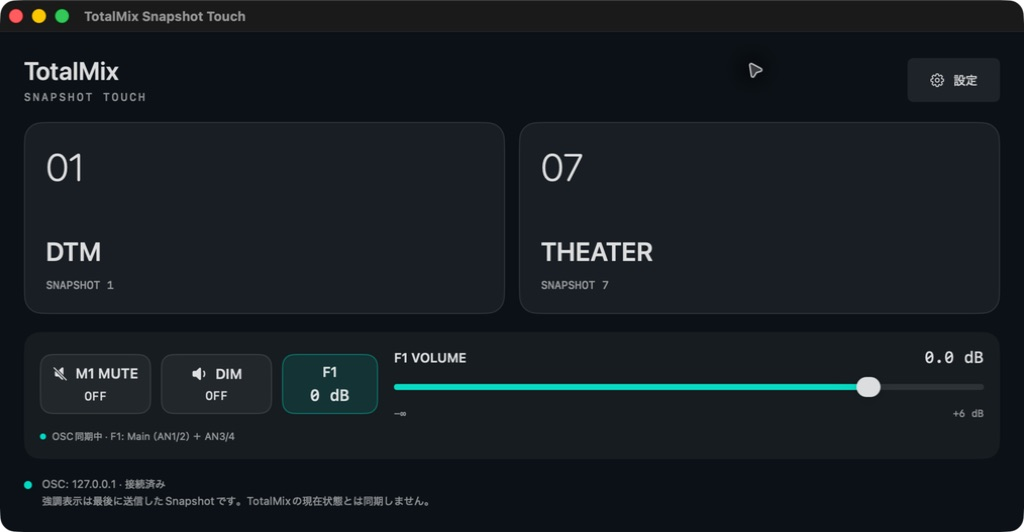
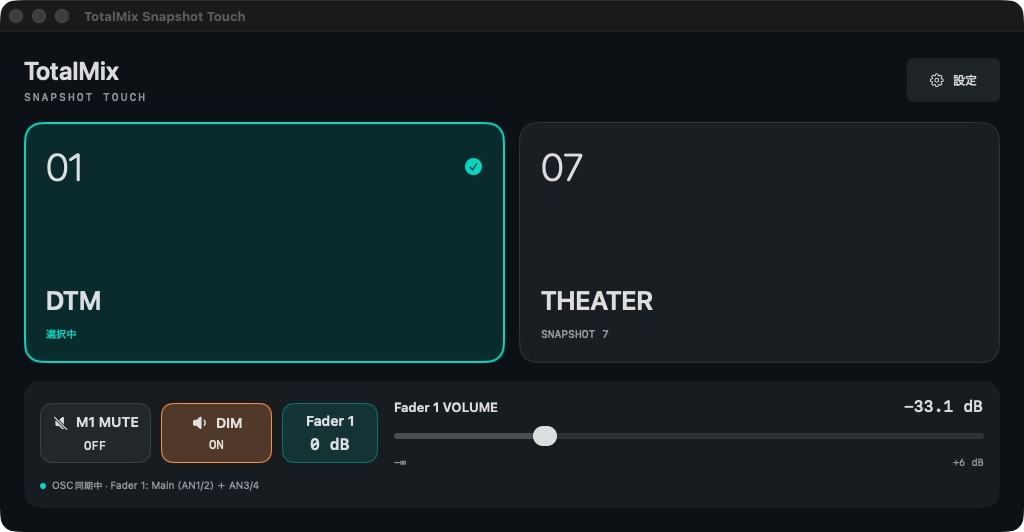
Sync snapshot selection from OSC and simplify UI with refreshed docs

diff --git a/Tests/TotalMixSnapshotTouchTests/OSCTests.swift b/Tests/TotalMixSnapshotTouchTests/OSCTests.swift
@@ -48,6 +48,8 @@ final class OSCTests: XCTestCase {
         settings.oscSendPort = sendPort; settings.oscReceivePort = receivePort
         let manager = OSCManager(settings: settings)
         XCTAssertFalse(manager.canAdjustVolume)
+        XCTAssertNil(manager.currentSnapshot)
+        XCTAssertFalse(manager.snapshotStateKnown)
         func outgoing() -> [OSCMessage] {
             var result: [OSCMessage] = [], bytes = [UInt8](repeating: 0, count: 65535)
             while true {
@@ -89,6 +91,7 @@ final class OSCTests: XCTestCase {
         ])
         XCTAssertTrue(snapshots.allSatisfy { $0.value == .float(1) })
         XCTAssertEqual(manager.lastSentSnapshot, 8)
+        XCTAssertNil(manager.currentSnapshot) // Sending is not confirmation.
         XCTAssertNotNil(manager.lastSentDate)
         settings.setHidden(true, for: 2)
         XCTAssertFalse(manager.recallSnapshot(2))
@@ -96,10 +99,24 @@ final class OSCTests: XCTestCase {
         XCTAssertFalse(manager.recallSnapshot(9))
         XCTAssertTrue(outgoing().isEmpty)
         XCTAssertEqual(manager.lastSentSnapshot, 8)
-        // Snapshot feedback alone must not overwrite the meaning of last-sent state.
-        feedback("/3/snapshots/8/1", 1)
+        // External recall updates selection even for hidden snapshots, not last-sent history.
+        for number in 1...8 {
+            feedback(SnapshotCommand.address(for: number)!, 1)
+            try await Task.sleep(nanoseconds: 20_000_000)
+            XCTAssertEqual(manager.currentSnapshot, number)
+            XCTAssertTrue(manager.snapshotStateKnown)
+        }
+        feedback("/3/snapshots/8/1", 1) // Snapshot 1 becomes selected.
+        feedback("/3/snapshots/1/1", 0) // Late deselection of Snapshot 8 must not clear 1.
+        feedback("/3/snapshots/9/1", 1) // Invalid address.
+        feedback("/3/snapshots/2/1", 0.5) // Invalid state.
         try await Task.sleep(nanoseconds: 50_000_000)
+        XCTAssertEqual(manager.currentSnapshot, 1)
         XCTAssertEqual(manager.lastSentSnapshot, 8)
+        feedback("/3/snapshots/8/1", 0) // Edited mix / no active snapshot.
+        try await Task.sleep(nanoseconds: 50_000_000)
+        XCTAssertNil(manager.currentSnapshot)
+        XCTAssertTrue(manager.snapshotStateKnown)
         manager.toggleDim(); manager.toggleDim() // No double toggle before feedback.
         manager.toggleMuteGroup1(); manager.setMainVolume(0.3, force: true)
         XCTAssertEqual(outgoing().map(\.address), ["/1/mainDim", "/3/muteGroups/4/1", "/1/mastervolume"])
@@ -108,13 +125,19 @@ final class OSCTests: XCTestCase {
         XCTAssertNil(manager.errorMessage)
         XCTAssertNil(manager.lastSentSnapshot)
         XCTAssertNil(manager.lastSentDate)
+        XCTAssertNil(manager.currentSnapshot)
+        XCTAssertFalse(manager.snapshotStateKnown)
         XCTAssertFalse(manager.connected)
         feedback("/1/mastervolume", 0.3)
+        feedback("/3/snapshots/2/1", 1)
         try await Task.sleep(nanoseconds: 100_000_000)
         XCTAssertTrue(manager.canAdjustVolume)
+        XCTAssertEqual(manager.currentSnapshot, 7)
         try await Task.sleep(nanoseconds: 4_800_000_000)
         XCTAssertFalse(manager.connected)
         XCTAssertFalse(manager.canAdjustVolume)
+        XCTAssertNil(manager.currentSnapshot)
+        XCTAssertFalse(manager.snapshotStateKnown)
         XCTAssertFalse(manager.recallSnapshot(1))
         settings.oscEnabled = false; manager.reconnect()
         XCTAssertFalse(manager.recallSnapshot(1))

diff --git a/Sources/TotalMixSnapshotTouch/Views/SnapshotButton.swift b/Sources/TotalMixSnapshotTouch/Views/SnapshotButton.swift
@@ -3,7 +3,7 @@ import SwiftUI
 struct SnapshotButton: View {
     let number: Int
     let name: String
-    let lastSent: Bool
+    let isSelected: Bool
     let enabled: Bool
     let action: () -> Void
     var body: some View {
@@ -13,7 +13,7 @@ struct SnapshotButton: View {
                     Text(String(format: "%02d", number))
                         .font(.system(size: 38, weight: .light, design: .rounded))
                     Spacer()
-                    if lastSent {
+                    if isSelected {
                         Image(systemName: "checkmark.circle.fill")
                             .font(.title2).foregroundStyle(Color.mint)
                     }
@@ -22,30 +22,30 @@ struct SnapshotButton: View {
                 Text(name)
                     .font(.system(size: 26, weight: .semibold))
                     .lineLimit(2).minimumScaleFactor(0.55)
-                Text(lastSent ? "最後に送信" : "SNAPSHOT \(number)")
+                Text(isSelected ? "選択中" : "SNAPSHOT \(number)")
                     .font(.system(size: 11, weight: .medium, design: .monospaced))
-                    .foregroundStyle(lastSent ? Color.mint : Color.secondary)
+                    .foregroundStyle(isSelected ? Color.mint : Color.secondary)
             }
             .padding(22)
             .frame(maxWidth: .infinity, maxHeight: .infinity, alignment: .leading)
             .contentShape(RoundedRectangle(cornerRadius: 18))
         }
-        .buttonStyle(SnapshotButtonStyle(lastSent: lastSent))
+        .buttonStyle(SnapshotButtonStyle(isSelected: isSelected))
         .disabled(!enabled)
         .opacity(enabled ? 1 : 0.45)
         .accessibilityLabel("Snapshot \(number)、\(name)")
-        .accessibilityValue(lastSent ? "最後に送信" : "")
+        .accessibilityValue(isSelected ? "選択中" : "")
         .help("Snapshot \(number)を呼び出す（キー \(number)）")
     }
 }
 
 private struct SnapshotButtonStyle: ButtonStyle {
-    let lastSent: Bool
+    let isSelected: Bool
     func makeBody(configuration: Configuration) -> some View {
         configuration.label
-            .background(configuration.isPressed ? Color.mint.opacity(0.32) : (lastSent ? Color.mint.opacity(0.13) : Color.white.opacity(0.055)))
+            .background(configuration.isPressed ? Color.mint.opacity(0.32) : (isSelected ? Color.mint.opacity(0.13) : Color.white.opacity(0.055)))
             .clipShape(RoundedRectangle(cornerRadius: 18))
-            .overlay(RoundedRectangle(cornerRadius: 18).strokeBorder(lastSent ? Color.mint : Color.white.opacity(0.1), lineWidth: lastSent ? 2 : 1))
+            .overlay(RoundedRectangle(cornerRadius: 18).strokeBorder(isSelected ? Color.mint : Color.white.opacity(0.1), lineWidth: isSelected ? 2 : 1))
             .scaleEffect(configuration.isPressed ? 0.975 : 1)
             .animation(.easeOut(duration: 0.12), value: configuration.isPressed)
     }

diff --git a/Sources/TotalMixSnapshotTouch/Views/MonitorControlsView.swift b/Sources/TotalMixSnapshotTouch/Views/MonitorControlsView.swift
@@ -13,7 +13,7 @@ struct MonitorControlsView: View {
             }
             HStack(spacing: 6) {
                 Circle().fill(osc.connected ? Color.mint : Color.orange).frame(width: 6, height: 6)
-                Text(osc.errorMessage ?? (osc.connected ? "OSC同期中 · F1: Main（AN1/2）＋ AN3/4" : (settings.oscEnabled ? "OSC応答待ち — 設定を確認してください" : "OSCは無効です")))
+                Text(osc.errorMessage ?? (osc.connected ? "OSC同期中 · Fader 1: Main（AN1/2）＋ AN3/4" : (settings.oscEnabled ? "OSC応答待ち — 設定を確認してください" : "OSCは無効です")))
                     .font(.caption).foregroundStyle(.secondary)
             }
         }
@@ -31,7 +31,7 @@ struct MonitorControlsView: View {
             control("DIM", icon: "speaker.wave.1.fill", value: osc.dim, pending: osc.pendingDim, action: osc.toggleDim)
             Button { osc.setMainVolumeToZeroDB() } label: {
                 VStack(spacing: 6) {
-                    Text("F1").font(.system(size: 14, weight: .semibold))
+                    Text("Fader 1").font(.system(size: 14, weight: .semibold))
                     Text("0 dB").font(.system(size: 16, weight: .semibold, design: .monospaced))
                 }
                 .frame(minWidth: 80, minHeight: 60)
@@ -42,8 +42,8 @@ struct MonitorControlsView: View {
             }
             .buttonStyle(.plain)
             .disabled(!osc.canAdjustVolume)
-            .accessibilityLabel("F1を0 dBに設定")
-            .help("Mainを0 dBに設定します。F1内の音量差は維持されます。")
+            .accessibilityLabel("Fader 1を0 dBに設定")
+            .help("Mainを0 dBに設定します。Fader 1内の音量差は維持されます。")
         }
     }
     private func control(_ name: String, icon: String, value: Bool?, pending: Bool, action: @escaping () -> Void) -> some View {
@@ -67,7 +67,7 @@ struct MonitorControlsView: View {
     private var fader: some View {
         VStack(alignment: .leading, spacing: 2) {
             HStack {
-                Text("F1 VOLUME").font(.system(size: 13, weight: .semibold))
+                Text("Fader 1 VOLUME").font(.system(size: 13, weight: .semibold))
                 Spacer()
                 Text(osc.volumeLabel).font(.system(size: 16, weight: .medium, design: .monospaced))
             }
@@ -82,7 +82,7 @@ struct MonitorControlsView: View {
             .frame(minHeight: 36)
             .tint(.mint)
             .disabled(!osc.canAdjustVolume)
-            .accessibilityLabel("F1音量（Main）")
+            .accessibilityLabel("Fader 1音量（Main）")
             .accessibilityValue(osc.volumeLabel)
             HStack { Text("−∞"); Spacer(); Text("+6 dB") }
                 .font(.system(size: 10, design: .monospaced)).foregroundStyle(.secondary)

diff --git a/Sources/TotalMixSnapshotTouch/OSC/OSCManager.swift b/Sources/TotalMixSnapshotTouch/OSC/OSCManager.swift
@@ -5,6 +5,8 @@ import Darwin
 /// One local TotalMix OSC controller, with state feedback. No Internet/LAN endpoint is used.
 @MainActor
 final class OSCManager: ObservableObject {
+    @Published private(set) var currentSnapshot: Int?
+    @Published private(set) var snapshotStateKnown = false
     @Published private(set) var lastSentSnapshot: Int?
     @Published private(set) var lastSentDate: Date?
     @Published private(set) var muteGroup1: Bool?
@@ -18,6 +20,7 @@ final class OSCManager: ObservableObject {
     private var socketFD: Int32 = -1
     private var reader: DispatchSourceRead?
     private var timer: Timer?
+    private var lastSnapshotFeedback = Date.distantPast
     private var lastFeedback = Date.distantPast
     private var lastVolumeFeedback = Date.distantPast
     private var lastMuteFeedback = Date.distantPast
@@ -72,6 +75,7 @@ final class OSCManager: ObservableObject {
         }
     }
     private func resetFeedback() {
+        currentSnapshot = nil; snapshotStateKnown = false; lastSnapshotFeedback = .distantPast
         lastSentSnapshot = nil; lastSentDate = nil
         connected = false; muteGroup1 = nil; dim = nil; mainVolume = nil
         volumeLabel = "— dB"; pendingMute = false; pendingDim = false
@@ -80,6 +84,7 @@ final class OSCManager: ObservableObject {
     }
     private func tick() {
         if Date().timeIntervalSince(lastFeedback) > 4 { resetFeedback() }
+        if Date().timeIntervalSince(lastSnapshotFeedback) > 4 { currentSnapshot = nil; snapshotStateKnown = false }
         if Date().timeIntervalSince(lastVolumeFeedback) > 4 { mainVolume = nil; volumeLabel = "— dB" }
         if Date().timeIntervalSince(lastMuteFeedback) > 4 { muteGroup1 = nil }
         if Date().timeIntervalSince(lastDimFeedback) > 4 { dim = nil }
@@ -166,7 +171,13 @@ final class OSCManager: ObservableObject {
                     }
                 case "/1/mastervolumeVal":
                     if case .string(let label) = message.value { volumeLabel = label }
-                default: continue
+                default:
+                    guard let number = SnapshotCommand.number(forFeedbackAddress: message.address),
+                          let value = message.number, value == 0 || value == 1 else { continue }
+                    if value == 1 { currentSnapshot = number }
+                    else if currentSnapshot == number { currentSnapshot = nil }
+                    snapshotStateKnown = true
+                    lastSnapshotFeedback = Date()
                 }
                 lastFeedback = Date(); connected = true; errorMessage = nil
             }

diff --git a/Sources/TotalMixSnapshotTouch/Views/MainView.swift b/Sources/TotalMixSnapshotTouch/Views/MainView.swift
@@ -37,7 +37,7 @@ struct MainView: View {
                         ScrollView {
                             LazyVGrid(columns: Array(repeating: GridItem(.flexible(), spacing: 14), count: columns), spacing: 14) {
                                 ForEach(visibleNumbers, id: \.self) { number in
-                                    SnapshotButton(number: number, name: settings.name(for: number), lastSent: osc.lastSentSnapshot == number, enabled: osc.connected) {
+                                    SnapshotButton(number: number, name: settings.name(for: number), isSelected: osc.currentSnapshot == number, enabled: osc.connected) {
                                         // Also guard actions retained during a view update.
                                         if !settings.hiddenSnapshots.contains(number) { osc.recallSnapshot(number) }
                                     }
@@ -51,19 +51,7 @@ struct MainView: View {
                     }
                 }
                 MonitorControlsView().disabled(showsSettings)
-                HStack(alignment: .top, spacing: 10) {
-                    Circle().fill(osc.connected ? Color.mint : Color.orange).frame(width: 8, height: 8).padding(.top, 4)
-                    VStack(alignment: .leading, spacing: 3) {
-                        Text(osc.errorMessage ?? (osc.connected ? "OSC: 127.0.0.1 · 接続済み" : "OSC未接続 — 設定を確認してください"))
-                            .foregroundStyle(osc.connected && osc.errorMessage == nil ? Color.secondary : Color.orange)
-                        Text("強調表示は最後に送信したSnapshotです。TotalMixの現在状態とは同期しません。")
-                            .foregroundStyle(.secondary)
-                    }.font(.system(size: 11))
-                    Spacer(minLength: 0)
-                    if let date = osc.lastSentDate {
-                        Text(date, style: .time).font(.system(size: 11, design: .monospaced)).foregroundStyle(.secondary)
-                    }
-                }
+
             }
             .padding(24)
         }

diff --git a/Sources/TotalMixSnapshotTouch/Views/SettingsView.swift b/Sources/TotalMixSnapshotTouch/Views/SettingsView.swift
@@ -20,7 +20,7 @@ struct SettingsView: View {
                     Button("ポート設定を適用・再接続") { osc.reconnect() }
                     Text("TotalMix: Enable OSC ControlをON。OSC ControllerをIn Use、Incoming=7001、Outgoing=9001、Remote Host=127.0.0.1に設定してください。従来のOSCモードを使用します。")
                         .font(.caption).foregroundStyle(.secondary)
-                    Text("F1はMain（AN1/2）とAN3/4を登録・有効化してください。フェーダーはMainを動かし、TotalMixのF1連動を使用します。Dimの減衰量はTotalMix側の設定です。")
+                    Text("Fader 1はMain（AN1/2）とAN3/4を登録・有効化してください。フェーダーはMainを動かし、TotalMixのFader 1連動を使用します。Dimの減衰量はTotalMix側の設定です。")
                         .font(.caption).foregroundStyle(.secondary)
                 }
                 Section("Snapshotの表示名・HIDE") {

diff --git a/Sources/TotalMixSnapshotTouch/Models/Snapshot.swift b/Sources/TotalMixSnapshotTouch/Models/Snapshot.swift
@@ -2,6 +2,9 @@ import Foundation
 
 enum SnapshotCommand {
     static let numbers = Array(1...8)
+    static func number(forFeedbackAddress address: String) -> Int? {
+        numbers.first { self.address(for: $0) == address }
+    }
     static func address(for number: Int) -> String? {
         guard numbers.contains(number) else { return nil }
         // TotalMix's OSC snapshot rows are numbered in reverse order.
